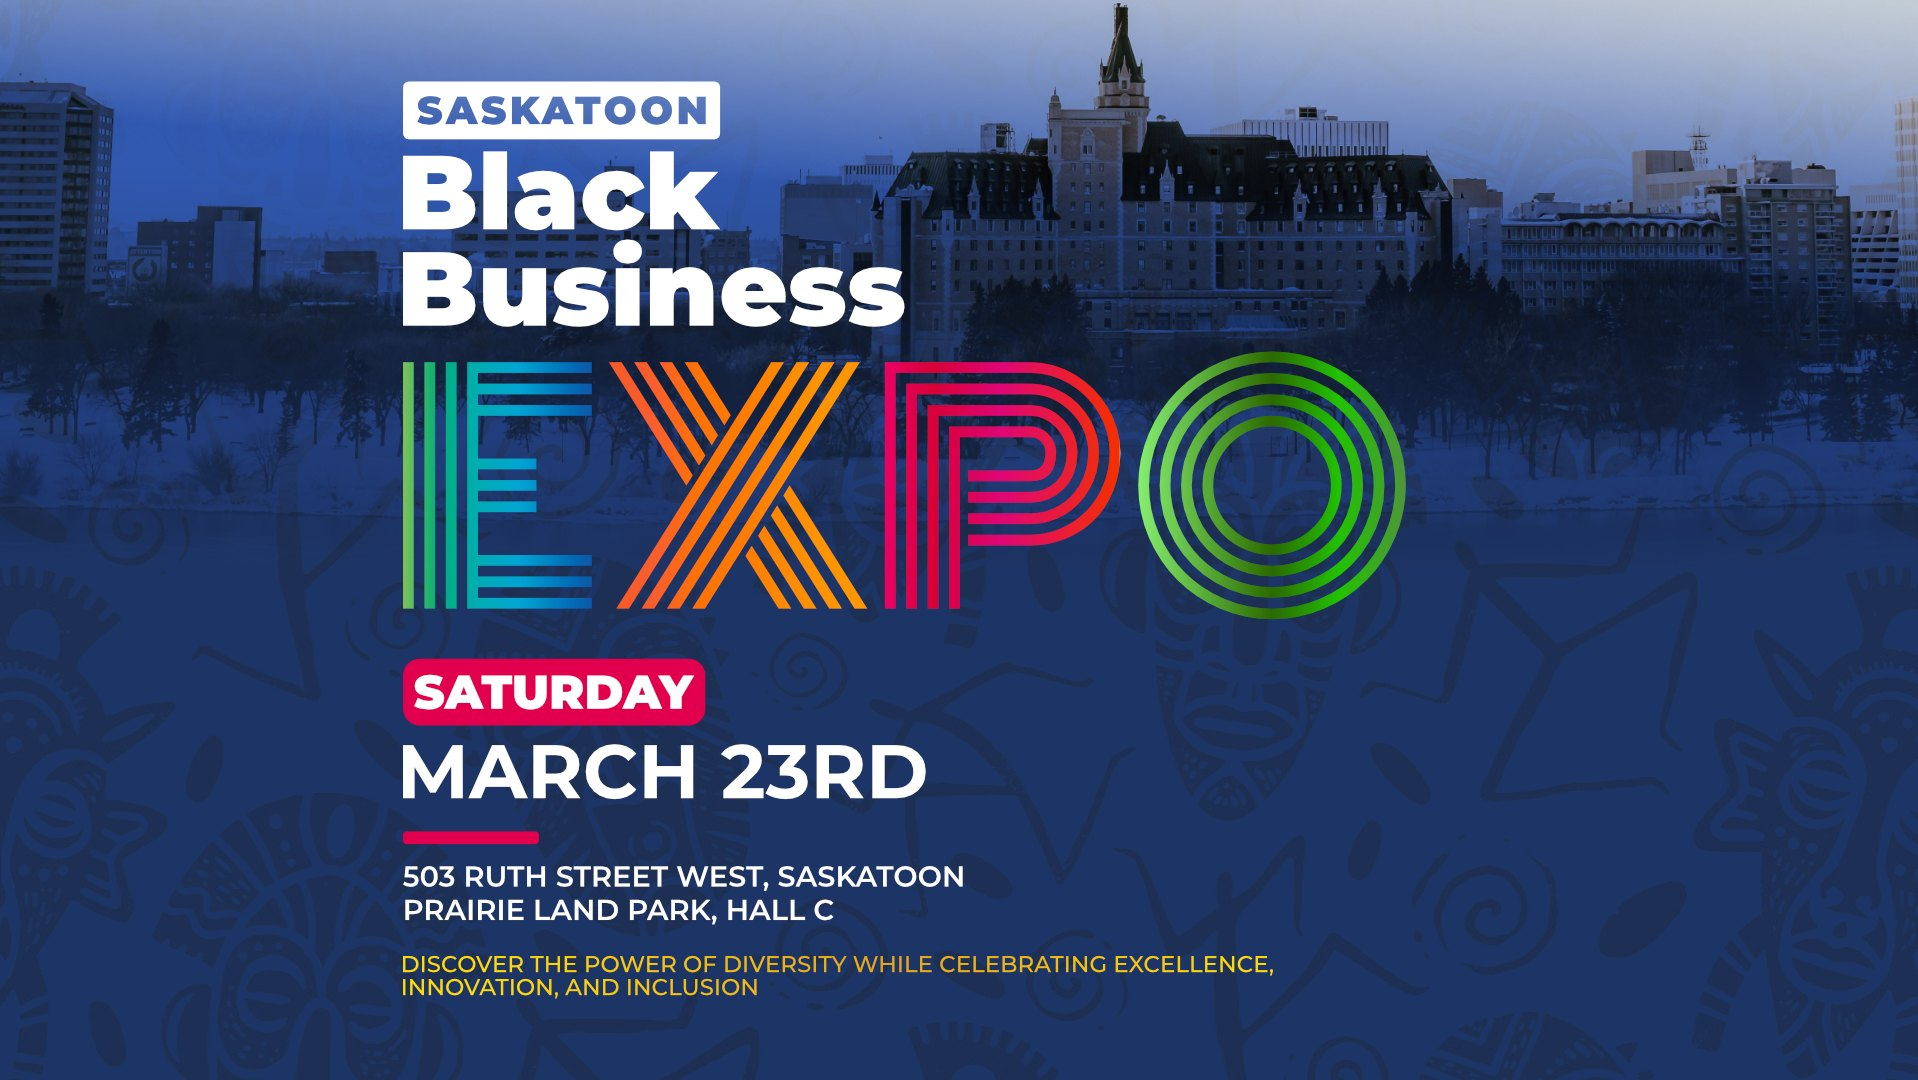
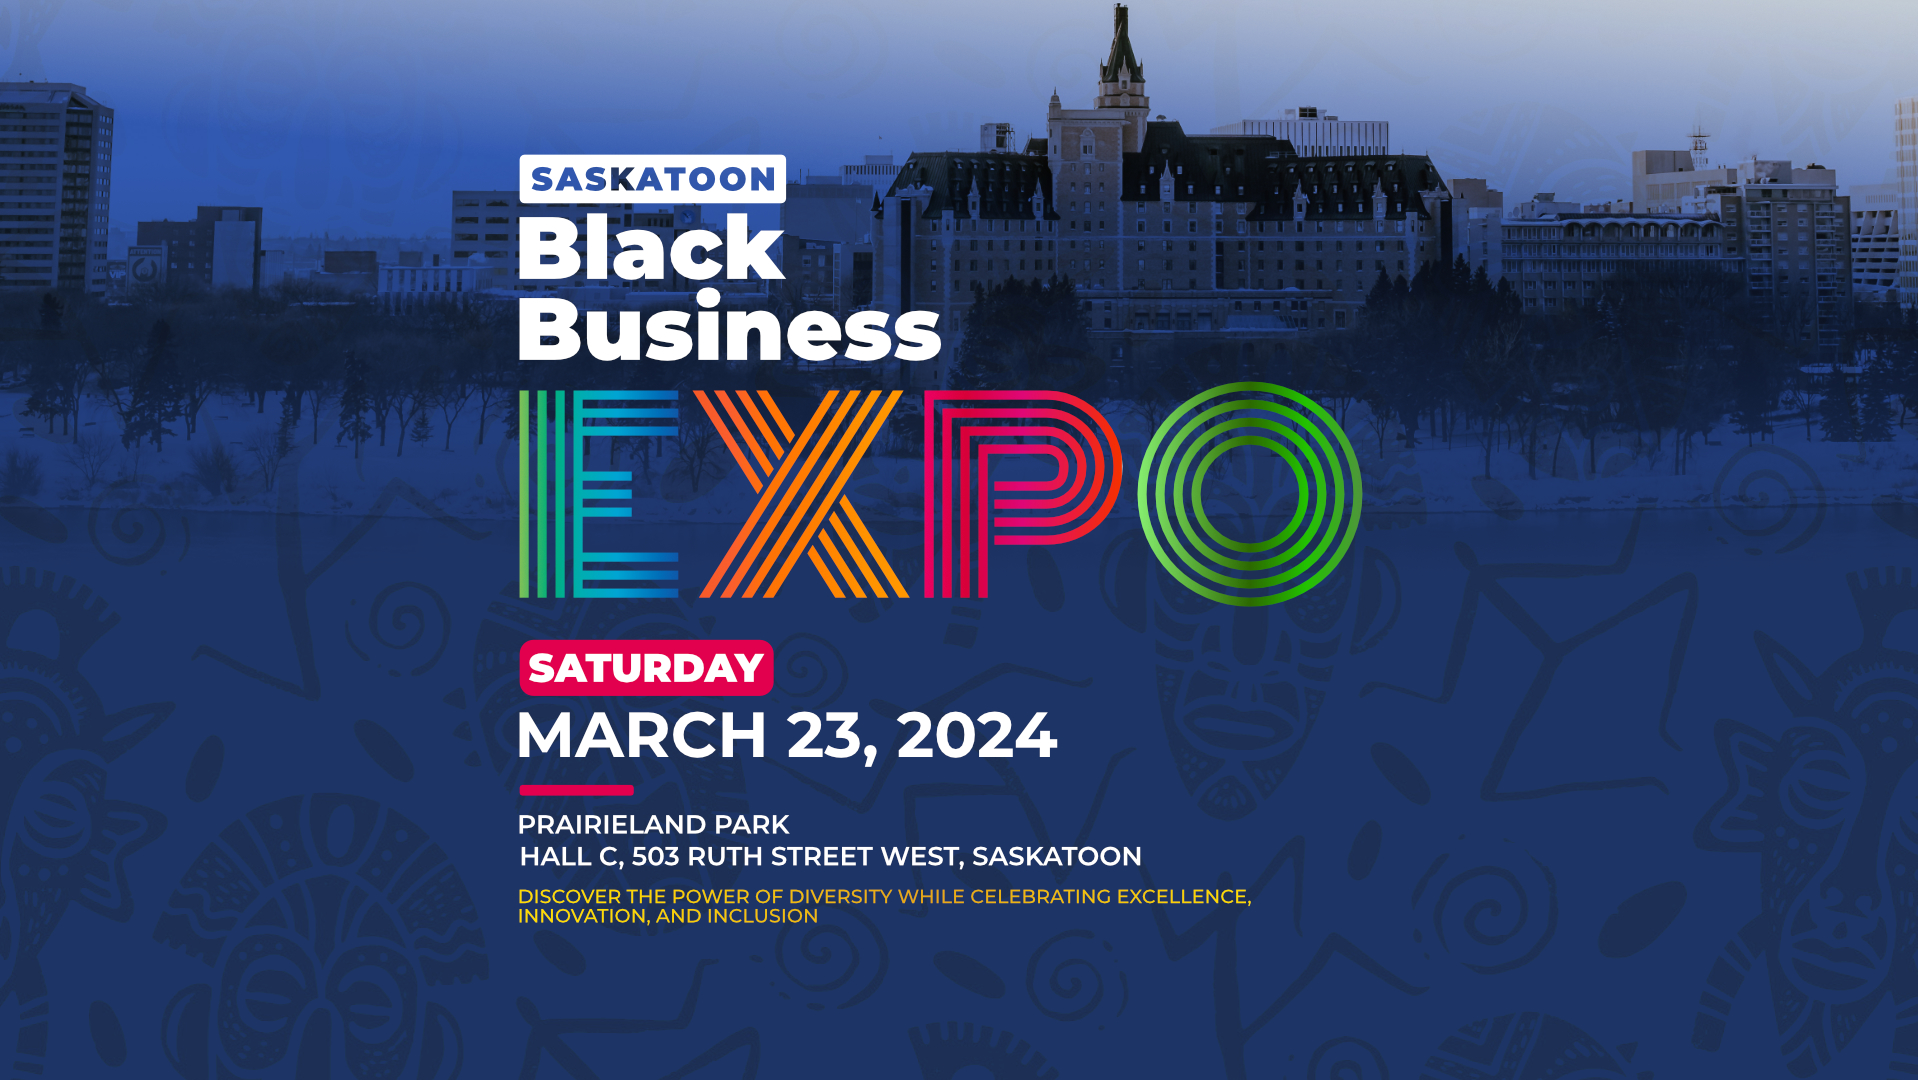
More fixes

Changed region(s): [[0.1846, 0.0611, 0.7383, 0.8556], [0.1846, 0.8861, 0.6767, 0.9472]]

diff --git a/src/components/home/Deets.jsx b/src/components/home/Deets.jsx
@@ -21,10 +21,10 @@ const Deets = () => {
 
               <p className="text-gray-500 text-center text-lg">
                 The primary goal of the Saskatoon Black Business Expo is to
-                showcase and promote Black- owned businesses, fostering
+                showcase and promote Black-owned businesses, fostering
                 networking, collaboration, and economic empowerment within the
                 community. The event aims to provide a platform for
-                entrepreneurs to connect with other businesses, consumers,
+                entrepreneurs to connect with other businesses, prospects,
                 investors, and procurement officers from government and
                 corporate organizations.
               </p>
@@ -38,7 +38,7 @@ const Deets = () => {
               <div className='pricing-plan border-t-4 border-solid border-white  text-center max-w-sm mx-auto hover:border-indigo-600 transition-colors duration-300 bg-blend-multiply bg-blue-500 bg-opacity-75 bg-cover bg- object-cover  bg-[url("/con-two.jpg")] bg-no-repeat '>
                 <div className="p-6 md:py-8">
                   <h4 className="font-medium text-[#fff] leading-tight text-2xl mb-2">
-                    Attend
+                  Experience black owned businesses
                   </h4>
                 </div>
                 {/* <div className="pricing-amount bg-purple-200/50 text-[#fff] p-6 transition-colors duration-300">
@@ -46,14 +46,14 @@ const Deets = () => {
                 </div> */}
                 <div className="p-6">
                   <ul className="leading-loose text-[#fff]">
-                    <li>Experience black owned businesses</li>
+                    {/* <li</li> */}
                     {/* <li>Show your brand</li>
                     <li>Find out more</li> */}
                   </ul>
                   <div className="mt-6 py-4 flex justify-center">
                     <Link
                       href="/attend"
-                      className="text-white  flex justify-center items-center py-2 px-4 bg-[#1D3466] lg:w-auto lg:h-[40px] text-sm lg:text-lg"
+                      className="text-white  flex justify-center items-center py-2 px-4 bg-orange-500 lg:w-auto lg:h-[40px] text-sm lg:text-lg"
                     >
                       Attend
                     </Link>
@@ -70,22 +70,24 @@ const Deets = () => {
               <div className='pricing-plan border-t-4 border-solid border-white  text-center max-w-sm mx-auto hover:border-indigo-600 transition-colors duration-300 bg-blend-multiply bg-red-500 bg-opacity-75 bg-cover bg- object-cover  bg-[url("/conf.jpg")] bg-no-repeat '>
                 <div className="p-6 md:py-8">
                   <h4 className="font-medium text-[#fff] leading-tight text-2xl mb-2">
-                    Exhibitor Registration
+                  Showcase your product
                   </h4>
                 </div>
                 {/* <div className="pricing-amount bg-purple-200/50 text-[#fff] p-6 transition-colors duration-300">
                   <div className="">Fill our form</div>
                 </div> */}
+                <div className="py-4"></div>
+
                 <div className="p-6">
                   <ul className="leading-loose text-[#fff]">
-                    <li>Showcase your product</li>
+                    {/* <li></li> */}
                     {/* <li>Exposure</li>
                     <li>Find out more</li> */}
                   </ul>
                   <div className="mt-6 py-4 flex justify-center">
                     <Link
                       href="/exhibitor"
-                      className="text-white  flex justify-center items-center py-2 px-4 bg-[#1D3466]  lg:w-auto lg:h-[40px] text-sm lg:text-lg"
+                      className="text-white  flex justify-center items-center py-2 px-4 bg-orange-500  lg:w-auto lg:h-[40px] text-sm lg:text-lg"
                     >
                       Exhibit
                     </Link>
@@ -105,22 +107,23 @@ const Deets = () => {
               <div className='pricing-plan border-t-4 border-solid border-white  text-center max-w-sm mx-auto hover:border-indigo-600 transition-colors duration-300 bg-blend-multiply bg-green-500 bg-opacity-75 bg-cover bg- object-cover  bg-[url("/con-three.jpg")] bg-no-repeat '>
                 <div className="p-6 md:py-8">
                   <h4 className="font-medium text-[#fff] leading-tight text-2xl mb-2">
-                    Volunteer
+                  Get involved here
                   </h4>
                 </div>
                 {/* <div className="pricing-amount bg-purple-200/50 text-[#fff] p-6 transition-colors duration-300">
                   <div className="">Fill our form</div>
                 </div> */}
+                <div className="py-4"></div>
                 <div className="p-6">
                   <ul className="leading-loose text-[#fff]">
-                    <li>Get involved here </li>
+                    {/* <li>Get involved here </li> */}
                     {/* <li>Brand Exposure</li>
                     <li>Find out more</li> */}
                   </ul>
                   <div className="mt-6 py-4 flex justify-center">
                     <Link
                       href="/volunteer"
-                      className="text-white  flex justify-center items-center py-2 px-4 bg-[#1D3466]  lg:w-auto lg:h-[40px] text-sm lg:text-lg"
+                      className="text-white  flex justify-center items-center py-2 px-4 bg-orange-500  lg:w-auto lg:h-[40px] text-sm lg:text-lg"
                     >
                       Volunteer
                     </Link>

diff --git a/src/components/home/About.jsx b/src/components/home/About.jsx
@@ -9,16 +9,15 @@ import {
 } from "react-icons/fa";
 import { MdSafetyCheck } from "react-icons/md";
 
-const About = () => { 
+const About = () => {
   return (
     <section
       id="about"
       className="lg:px-10  pt-20  px-4  overflow-hidden  text-clip"
     >
-      
       <div className="grid lg:grid-cols-3 grid-cols-1 gap-4 ">
         <div className="border border-[#1D3466]  flex flex-col justify-center gap-y-4 items-center bg-[#fff] lg:p-4 p-2">
-        <p className="font-semibold lg:text-xl text-lg text-center text-#1d3466">
+          <p className="font-semibold lg:text-xl text-lg text-center text-#1d3466">
             WHEN
           </p>
           <svg
@@ -29,14 +28,10 @@ const About = () => {
           >
             <path d="M12 192h424c6.6 0 12 5.4 12 12v260c0 26.5-21.5 48-48 48H48c-26.5 0-48-21.5-48-48V204c0-6.6 5.4-12 12-12zm436-44v-36c0-26.5-21.5-48-48-48h-48V12c0-6.6-5.4-12-12-12h-40c-6.6 0-12 5.4-12 12v52H160V12c0-6.6-5.4-12-12-12h-40c-6.6 0-12 5.4-12 12v52H48C21.5 64 0 85.5 0 112v36c0 6.6 5.4 12 12 12h424c6.6 0 12-5.4 12-12z" />
           </svg>
-          <p className="font-semibold  text-center">
-            March 23, 2024
-          </p>
+          <p className="font-semibold  text-center">MARCH 23, 2024</p>
         </div>
         <div className="border border-[#DD0042]  flex flex-col justify-center gap-y-4 items-center bg-[#fff] lg:px-4 p-2">
-        <p className="font-semibold lg:text-xl text-lg text-center">
-            WHERE
-          </p>
+          <p className="font-semibold lg:text-xl text-lg text-center">WHERE</p>
           <svg
             className="w-20 h-20"
             xmlns="http://www.w3.org/2000/svg"
@@ -46,13 +41,11 @@ const About = () => {
             <path d="M172.3 501.7C27 291 0 269.4 0 192 0 86 86 0 192 0s192 86 192 192c0 77.4-27 99-172.3 309.7-9.5 13.8-29.9 13.8-39.5 0zM192 272c44.2 0 80-35.8 80-80s-35.8-80-80-80-80 35.8-80 80 35.8 80 80 80z" />
           </svg>
           <p className="font-semibold text-sm text-center">
-          Prairie Land Park, Hall C 503 Ruth Street West, Saskatoon
+            PRAIRIELAND PARK - HALL C
           </p>
         </div>
         <div className="border border-[#6AC54D]  flex flex-col justify-center gap-y-4 items-center bg-[#fff] lg:p-4 p-2">
-        <p className="font-semibold lg:text-xl text-lg text-center">
-            TIME
-          </p>
+          <p className="font-semibold lg:text-xl text-lg text-center">TIME</p>
           <svg
             className="w-20 h-20"
             xmlns="http://www.w3.org/2000/svg"
@@ -62,9 +55,7 @@ const About = () => {
             <path d="M256 8C119 8 8 119 8 256S119 504 256 504 504 393 504 256 393 8 256 8zm92.5 313h0l-20 25a16 16 0 0 1 -22.5 2.5h0l-67-49.7a40 40 0 0 1 -15-31.2V112a16 16 0 0 1 16-16h32a16 16 0 0 1 16 16V256l58 42.5A16 16 0 0 1 348.5 321z" />
           </svg>
 
-          <p className="font-semibold  text-center">
-            11 am
-          </p>
+          <p className="font-semibold  text-center">11AM</p>
         </div>
       </div>
       {/* <div className='flex py-7 px-5 items-start lg:w-full bg-[url("/about-hero.jpg")] bg-blend-multiply  bg-[#1D3466]  bg-cover bg-center bg-no-repeat  flex-col lg:flex-row  gap-y-6 lg;gap-y-0 gap-x-6'>

diff --git a/src/components/projects/All.jsx b/src/components/projects/All.jsx
@@ -60,21 +60,21 @@ const All = () => {
           </div>
         </div>
         <p className="text-[#fff] text-center py-3 font-thin">
-          Mayor of Saskatoon
-      </p>
+          Mayor, City of Saskatoon
+        </p>
         <div className="flex justify-center items-center  px-0 l py-2 gap-x-4">
-          <Link
+          {/* <Link
             href={"https://www.instagram.com/charlieclarkyxe/"}
             className="text-[#fff]"
           >
             <FaInstagram className="text-lg " />
-          </Link>
-          {/* <Link
+          </Link> */}
+          <Link
             href={"http://linkedin.com/in/charlie-clark-5413a547"}
             className="text-[#fff]"
           >
             <FaLinkedinIn className="text-lg " />
-          </Link> */}
+          </Link>
         </div>
       </div>
       <div data-aos="zoom-out-up" data-aos-duration="1000">
@@ -91,22 +91,22 @@ const All = () => {
           </div>
         </div>
         <p className="text-[#fff] text-center py-3 font-thin">
-          CEO Saskatoon Chambers of Commerce
+          CEO, Saskatoon Chamber of Commerce
         </p>
         <div className="flex justify-center items-center  px-0 l py-2 gap-x-4">
-          <Link
+          {/* <Link
             href={"https://www.instagram.com/jasonaebig/"}
             className="text-[#fff]"
           >
             <FaInstagram className="text-lg " />
-          </Link>
-          {/* <Link
+          </Link> */}
+          <Link
             href={"http://linkedin.com/in/jason-aebig-02b7681b"}
             className="text-[#fff]"
           >
             <FaLinkedinIn className="text-lg " />
           </Link>
-          <Link href={"https://x.com/JasonAebig?s=20"} className="text-[#fff]">
+          {/* <Link href={"https://x.com/JasonAebig?s=20"} className="text-[#fff]">
             <FaTwitter className="text-lg " />
           </Link> */}
         </div>
@@ -134,13 +134,13 @@ const All = () => {
           Board Chair, BPES
         </p>
         <div className="flex justify-center items-center  px-0 l py-2 gap-x-4">
-          <Link
+          {/* <Link
             href={"https://www.instagram.com/owojorigbenga/"}
             className="text-[#fff]"
           >
             <FaInstagram className="text-lg " />
-          </Link>
-          {/* <Link
+          </Link> */}
+           <Link
             href={
               "https://www.linkedin.com/in/olugbenga-john-owojori-phd-p-biol-239b52b?lipi=urn%3Ali%3Apage%3Ad_flagship3_profile_view_base_contact_details%3Bxmj7c89PTW2I5aOOo9zZmQ%3D%3D"
             }
@@ -148,12 +148,12 @@ const All = () => {
           >
             <FaLinkedinIn className="text-lg " />
           </Link>
-          <Link
+          {/* <Link
             href={"https://x.com/DrJohnOwojori?s=20"}
             className="text-[#fff]"
           >
             <FaTwitter className="text-lg " />
-          </Link> */}
+          </Link>  */}
         </div>
       </div>
       {/* <div>

diff --git a/src/components/navigation/Footer.jsx b/src/components/navigation/Footer.jsx
@@ -31,7 +31,7 @@ const Footer = () => {
 
               <p className="text-[#fff]  text-sm font-extralight lg:max-w-lg lg:text-left text-center">
                 The primary goal of the Saskatoon Black Business Expo is to
-                showcase and promote businesses, fostering
+                showcase and promote Black-owned  businesses, fostering
                 networking, collaboration, and economic empowerment within the
                 community. The event aims to provide a platform for
                 entrepreneurs to connect with other businesses, consumers,
@@ -265,9 +265,9 @@ const Footer = () => {
 
                     <li className="mb-2 pb-2 lg:text-left text-center">
                       <span className="flex gap-2 items-center justify-center lg:justify-start">
-                        <a className="  text-[#fff] font-thin   text-lg lg:text-left text-center">
-                          Get in Touch: info@saskblackbusiness.ca
-                        </a>
+                        <Link href="/contact" className="  text-[#fff] font-thin   text-lg lg:text-left text-center">
+                          Get in Touch
+                        </Link>
                       </span>
                     </li>
                   </ul>

diff --git a/src/components/home/Buttons.jsx b/src/components/home/Buttons.jsx
@@ -45,7 +45,7 @@ const Buttons = () => {
           href="/sponsorship"
           className="rounded-lg flex justify-center items-center px-8 py-2 text-xl bg-[#1D3466] text-[#fff] hover:bg-blue-600 duration-300 w-full"
         >
-        Sponsorship
+        Sponsor
         </Link>
       </div>
       <div
